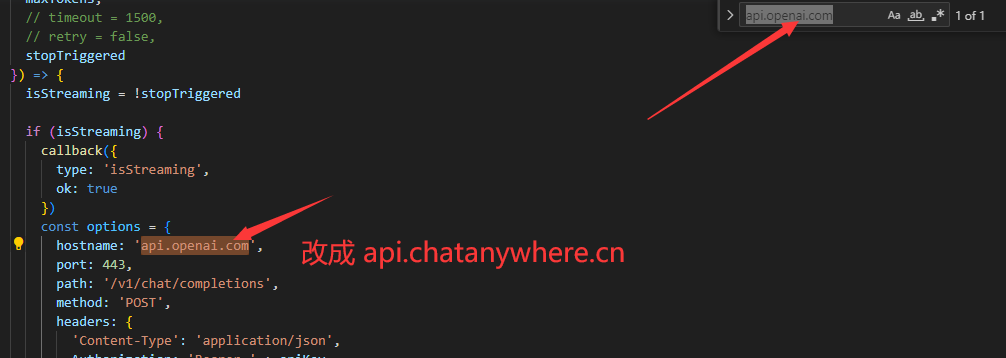
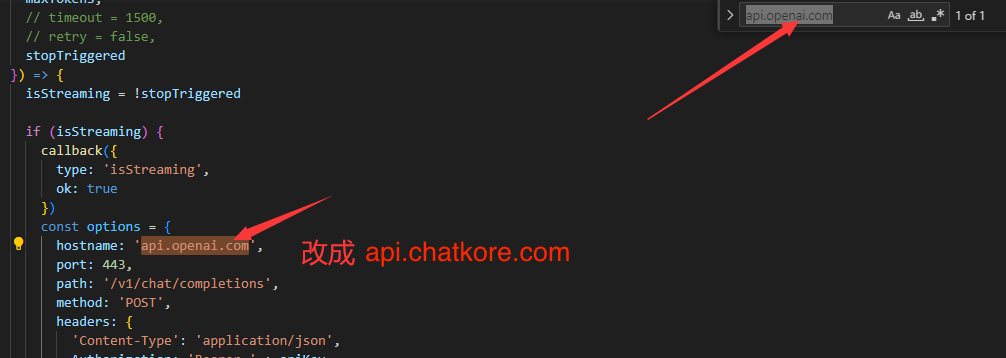
修改排版

Changed region(s): [[0.339, 0.676, 0.6471, 0.7374]]

diff --git a/README.md b/README.md
@@ -1,17 +1,22 @@
-# chatkore
-chatkore本意即为开发者提供优质稳定的OpenAI相关的API调用接口，方便国内用户使用各类开源ChatGPT项目或者AI领域的库的使用。有任何问题请加QQ群联系客服：群号[742077418](http://qm.qq.com/cgi-bin/qm/qr?_wv=1027&k=tUZP9cQ-wRDjYNMwZjvs7maNyixcIYB5&authKey=dzF1K7fXUdg%2BMf8zLoPp9L%2F9bvhkoVpyWQoZoEFW0WLeinAmx2OOHBGZfqAjrikl&noverify=0&group_code=742077418)  
+<div align="center">
+<img src="./images/logo.png" alt="icon" width="50px"/>
+<h1 align="center">GPT-API-free</h1>
+
+支持 **GPT-4** / GPT-3.5-Turbo / GPT-3.5-Turbo-16K / embeddings  
+chatkore本意即为开发者提供优质稳定的OpenAI相关的API调用接口，方便国内用户使用各类开源ChatGPT项目或者AI领域的库的使用。  
+有任何问题请加QQ群联系客服：群号[742077418](http://qm.qq.com/cgi-bin/qm/qr?_wv=1027&k=tUZP9cQ-wRDjYNMwZjvs7maNyixcIYB5&authKey=dzF1K7fXUdg%2BMf8zLoPp9L%2F9bvhkoVpyWQoZoEFW0WLeinAmx2OOHBGZfqAjrikl&noverify=0&group_code=742077418)  
 官网：[https://www.chatkore.com](https://www.chatkore.com)  
-免部署版网页端现已上线：[AI对话机器人-chatkore](https://www.chatkore.com/chat)，现已支持GPT3.5和GPT4的切换，GPT4没有每3小时25条消息的限制。无需翻墙，国内网络即可体验，注册即送100积分。
+免部署版网页端现已上线：[AI对话机器人-chatkore](https://www.chatkore.com/newchat)，支持GPT3.5和GPT4切换，GPT4没有每3小时25条消息限制。无需代理，国内网络即可体验，注册即送100积分。  
 example中的详细说明请关注：  
 知乎号：[chatkore](https://www.zhihu.com/people/2f25274935e6eb5be025ccf0abb1d724 "chatkore知乎号")  
-头条号：[chatkore](https://profile.zjurl.cn/rogue/ugc/profile/?version_code=9.4.1&version_name=90401&user_id=4146953757669309&media_id=1665904070450180&request_source=1&active_tab=dongtai&device_id=65&app_name=news_article&share_token=8A0BC5FD-68F6-4982-A223-41BEE00B6BD9&tt_from=mobile_qq&utm_source=mobile_qq&utm_medium=toutiao_ios&utm_campaign=client_share "chatkore头条号")
+头条号：[chatkore](https://profile.zjurl.cn/rogue/ugc/profile/?version_code=9.4.1&version_name=90401&user_id=4146953757669309&media_id=1665904070450180&request_source=1&active_tab=dongtai&device_id=65&app_name=news_article&share_token=8A0BC5FD-68F6-4982-A223-41BEE00B6BD9&tt_from=mobile_qq&utm_source=mobile_qq&utm_medium=toutiao_ios&utm_campaign=client_share "chatkore头条号")  
+
+</div>
 
 ### 相比OpenAI的主要优势
-- 不限制国内使用，可以用支付宝付款，没有封号风险。
-- 无需代理即可访问，没有墙的阻拦。
+- 国内动态加速，直连无需代理。
+- 可以用支付宝付款，没有封号风险。
 - 支持GPT4，并且没有每3小时25条消息的限制。
-- 无需代理即可访问，没有墙的阻拦。
-- 无需代理即可访问，没有墙的阻拦。
 - 兼容OpenAI接口格式，可以做到平替。支持vscode插件，支持autoGPT，agentGPT。API用法也可参考[官方文档](https://platform.openai.com/docs/api-reference/introduction)
 - 无最低消费金额与最低充值金额，可以作为本地测试开发的完美替代品。
 - 新增对Embeddings支持，可以用接口运行AutoGPT等应用。
@@ -24,15 +29,9 @@ example中的详细说明请关注：
 2023-07-28: 加入语音聊天机器人示例，目录：examples/voiceChatBot/  
 2023-06-15: 支持gpt-4-0613，gpt-3.5-turbo-0613，gpt-3.5-turbo-16k，gpt-3.5-turbo-16k-0613新模型，支持函数调用功能。  
 
-### 使用[chatgpt-web](https://github.com/Chanzhaoyu/chatgpt-web)项目配置
-##### 修改service/.env文件
-- 设置OPENAI_API_KEY环境变量为chatkore后台获取的Key
-- 设置OPENAI_API_BASE_URL环境变量为：https://api.chatkore.com/v1
-- 由于网络延迟，建议把TIMEOUT_MS设置为180000或者更高
-
 ### 常见软件/插件使用方法
 
-##### **python openai官方库（使用AutoGPT，langchain等）**
+#### **python openai官方库（使用AutoGPT，langchain等）**
 示例代码请参考[demo.py](./examples/pythonDemo/demo.py)
 
 ***方法一***
@@ -48,13 +47,21 @@ openai.api_base = "https://api.chatkore.com/v1"
 ```bash
 OPENAI_API_BASE=https://api.chatkore.com/v1
 ```
-##### **开源gpt_academic**
+#### **开源gpt_academic**
 找到`config.py`文件中的`API_URL_REDIRECT`配置并修改为以下内容：
 ```python
 API_URL_REDIRECT = {"https://api.openai.com/v1/chat/completions": "https://api.chatkore.com/v1/chat/completions"}
 ```
 
-##### **ChatBox(推荐使用)**
+#### **chatgpt-web**
+
+下载链接：https://github.com/Chanzhaoyu/chatgpt-web
+##### 修改service/.env文件
+- 设置OPENAI_API_KEY环境变量为chatkore后台获取的Key
+- 设置OPENAI_API_BASE_URL环境变量为：https://api.chatkore.com/v1
+- 由于网络延迟，建议把TIMEOUT_MS设置为180000或者更高
+
+#### **ChatBox(推荐使用)**
 
 ChatGPT开源桌面应用，支持全部桌面平台。
 
@@ -65,7 +72,7 @@ ChatGPT开源桌面应用，支持全部桌面平台。
 ![](images/chatbox.png)
 
 
-##### **浏览器插件ChatGPT Sidebar**
+#### **浏览器插件ChatGPT Sidebar**
 
 官网链接：https://chatgpt-sidebar.com/
 
@@ -73,7 +80,7 @@ ChatGPT开源桌面应用，支持全部桌面平台。
 
 ![](images/sidebar.png)
 
-##### **Jetbrains插件ChatGPT - Easycode**
+#### **Jetbrains插件ChatGPT - Easycode**
 <img src="./images/jet1.png" width='200'/>
 
 安装好插件后在Settings > Tools > OpenAI > GPT 3.5 Turbo中如图所示配置好插件，重点要将Server Settings 修改为 `https://api.chatkore.com/v1/chat/completions` 。并勾选Customize Server。
@@ -81,7 +88,7 @@ ChatGPT开源桌面应用，支持全部桌面平台。
 ![](images/jet2.png)
 
 
-##### **VSCode插件Code GPT**
+#### **VSCode插件Code GPT**
 <img src="./images/codegpt1.png" width='300'/>
 
 这个插件修改Host相对麻烦一些，需要修改源码才可以使用。
@@ -102,7 +109,7 @@ ChatGPT开源桌面应用，支持全部桌面平台。
 
 - 其他VSCode插件类似。
 
-##### **Raycast 插件 ChatGPT（推荐使用）**
+#### **Raycast 插件 ChatGPT（推荐使用）**
 
 1. 在 Raycast Store 中找到 ChatGPT 插件，并按照提示安装：
 ![](images/raycast1.png)
